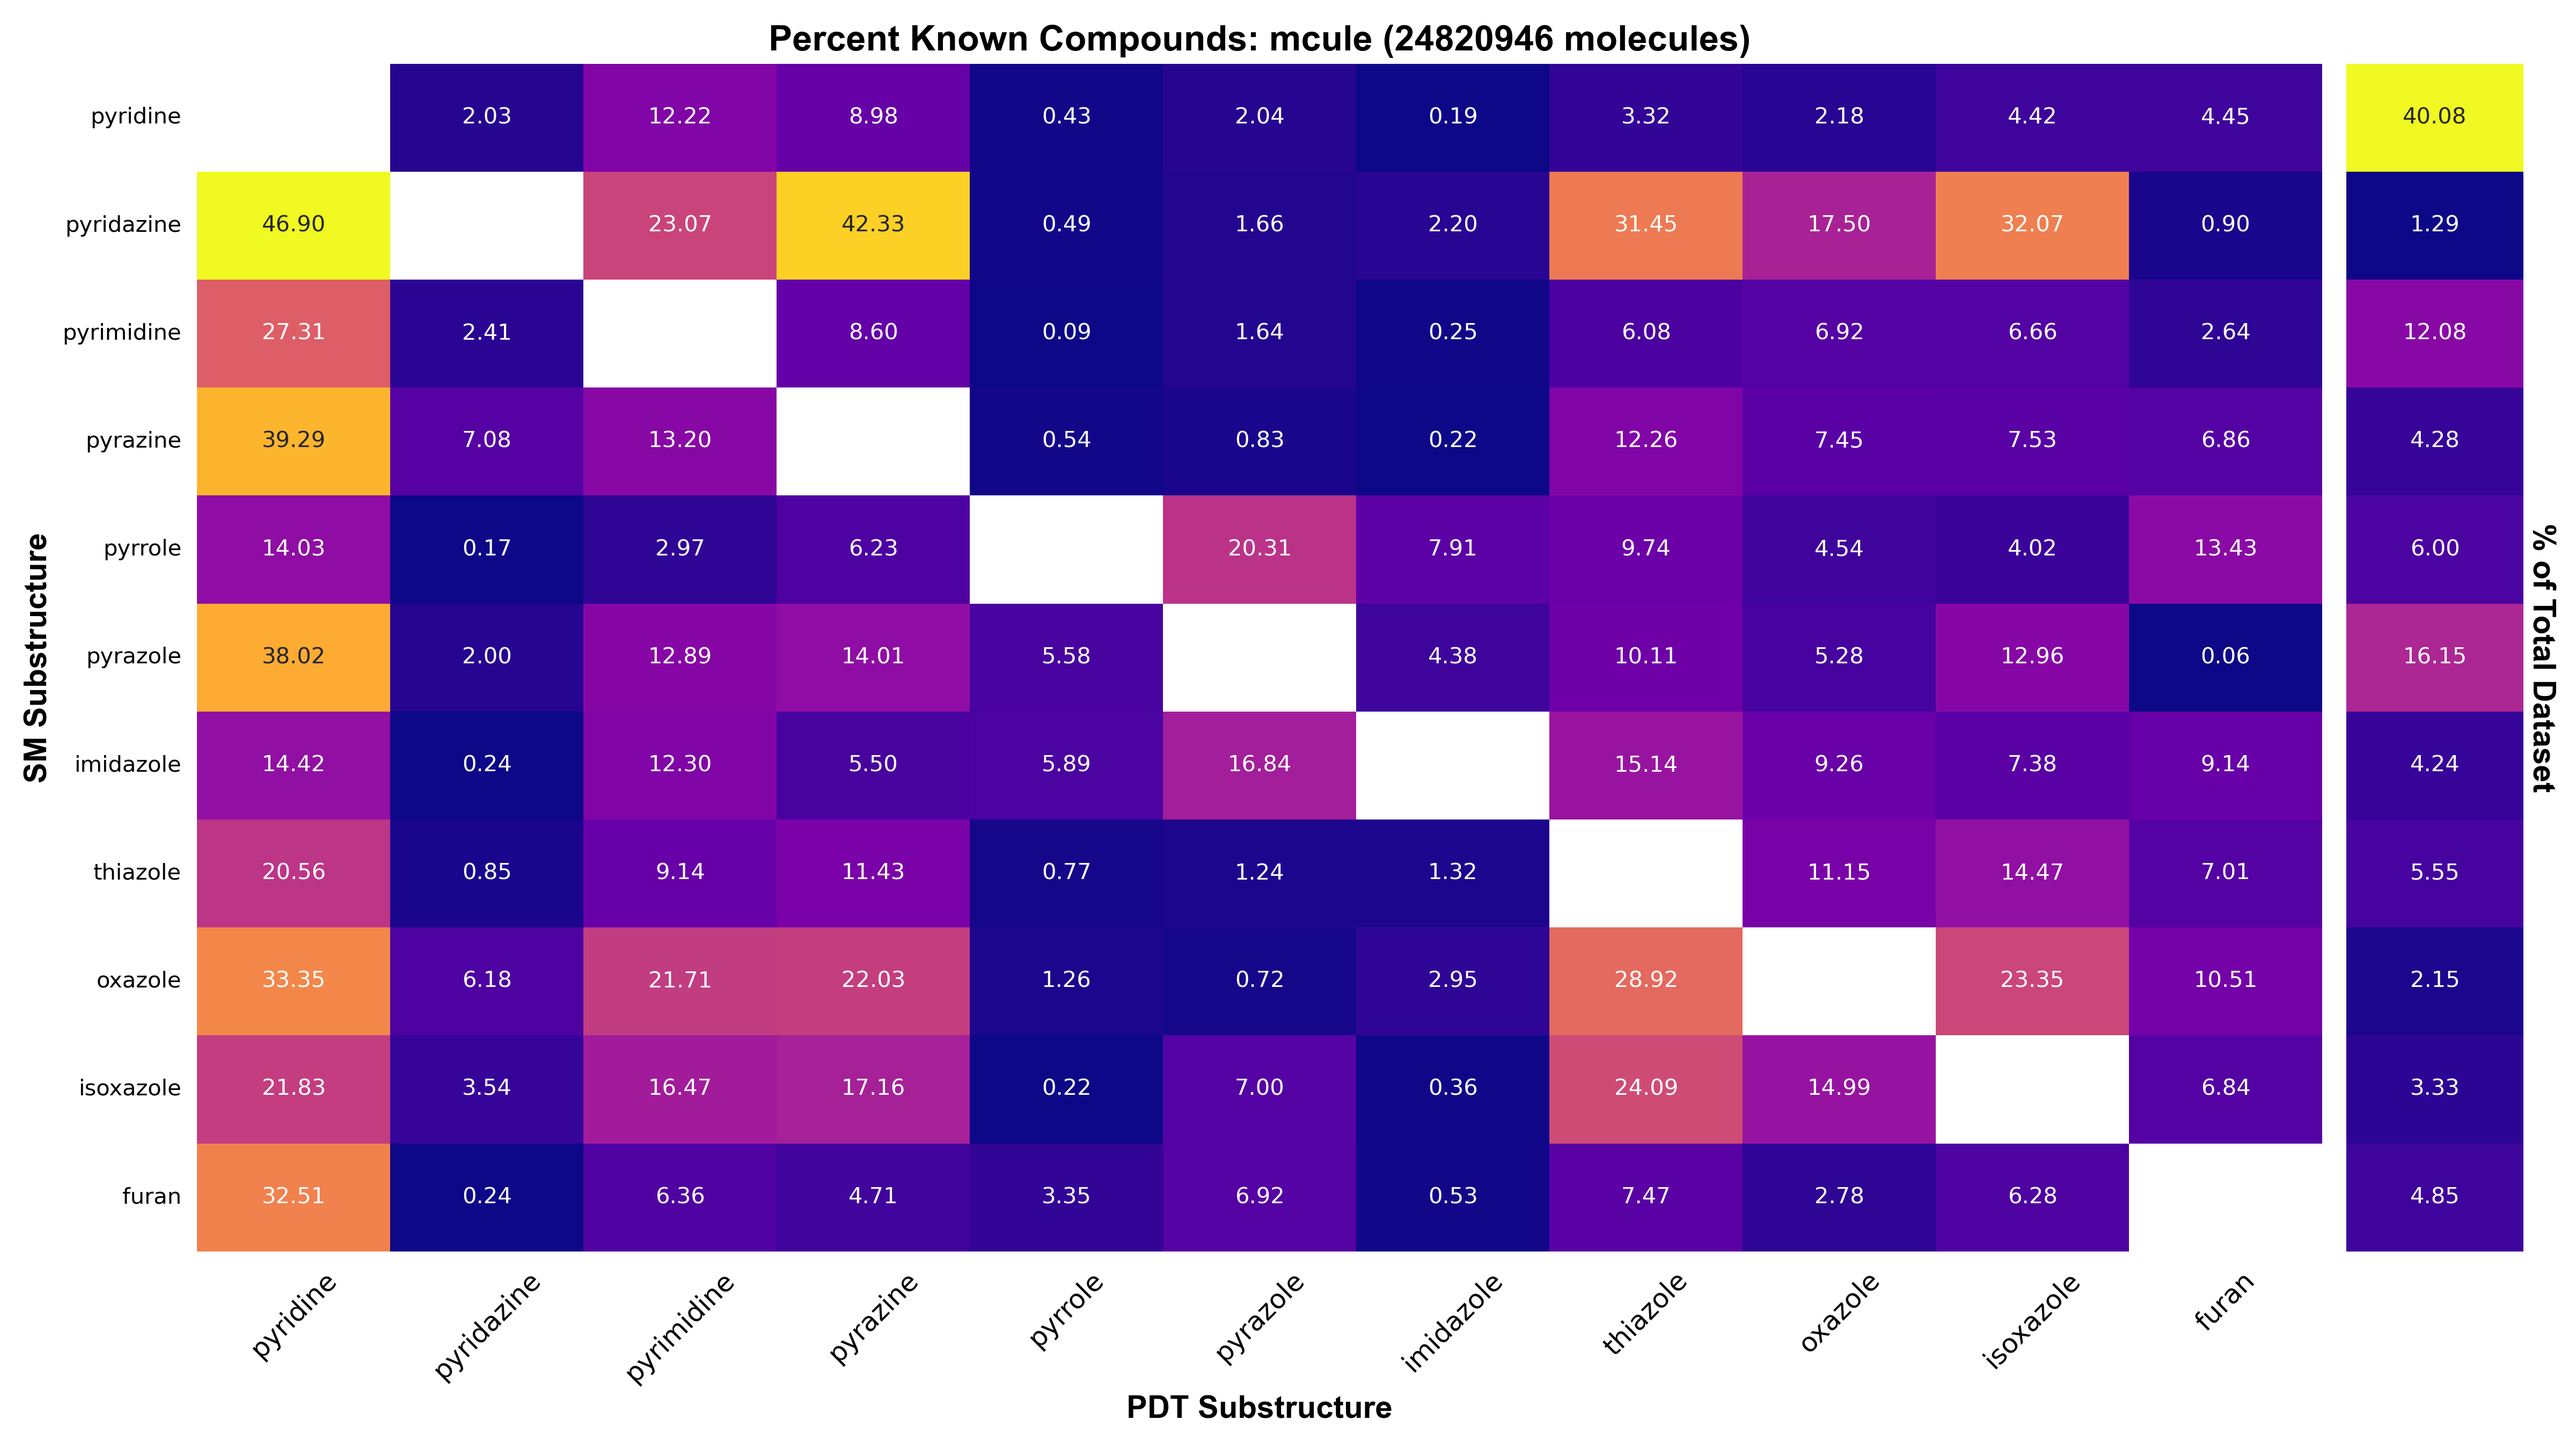
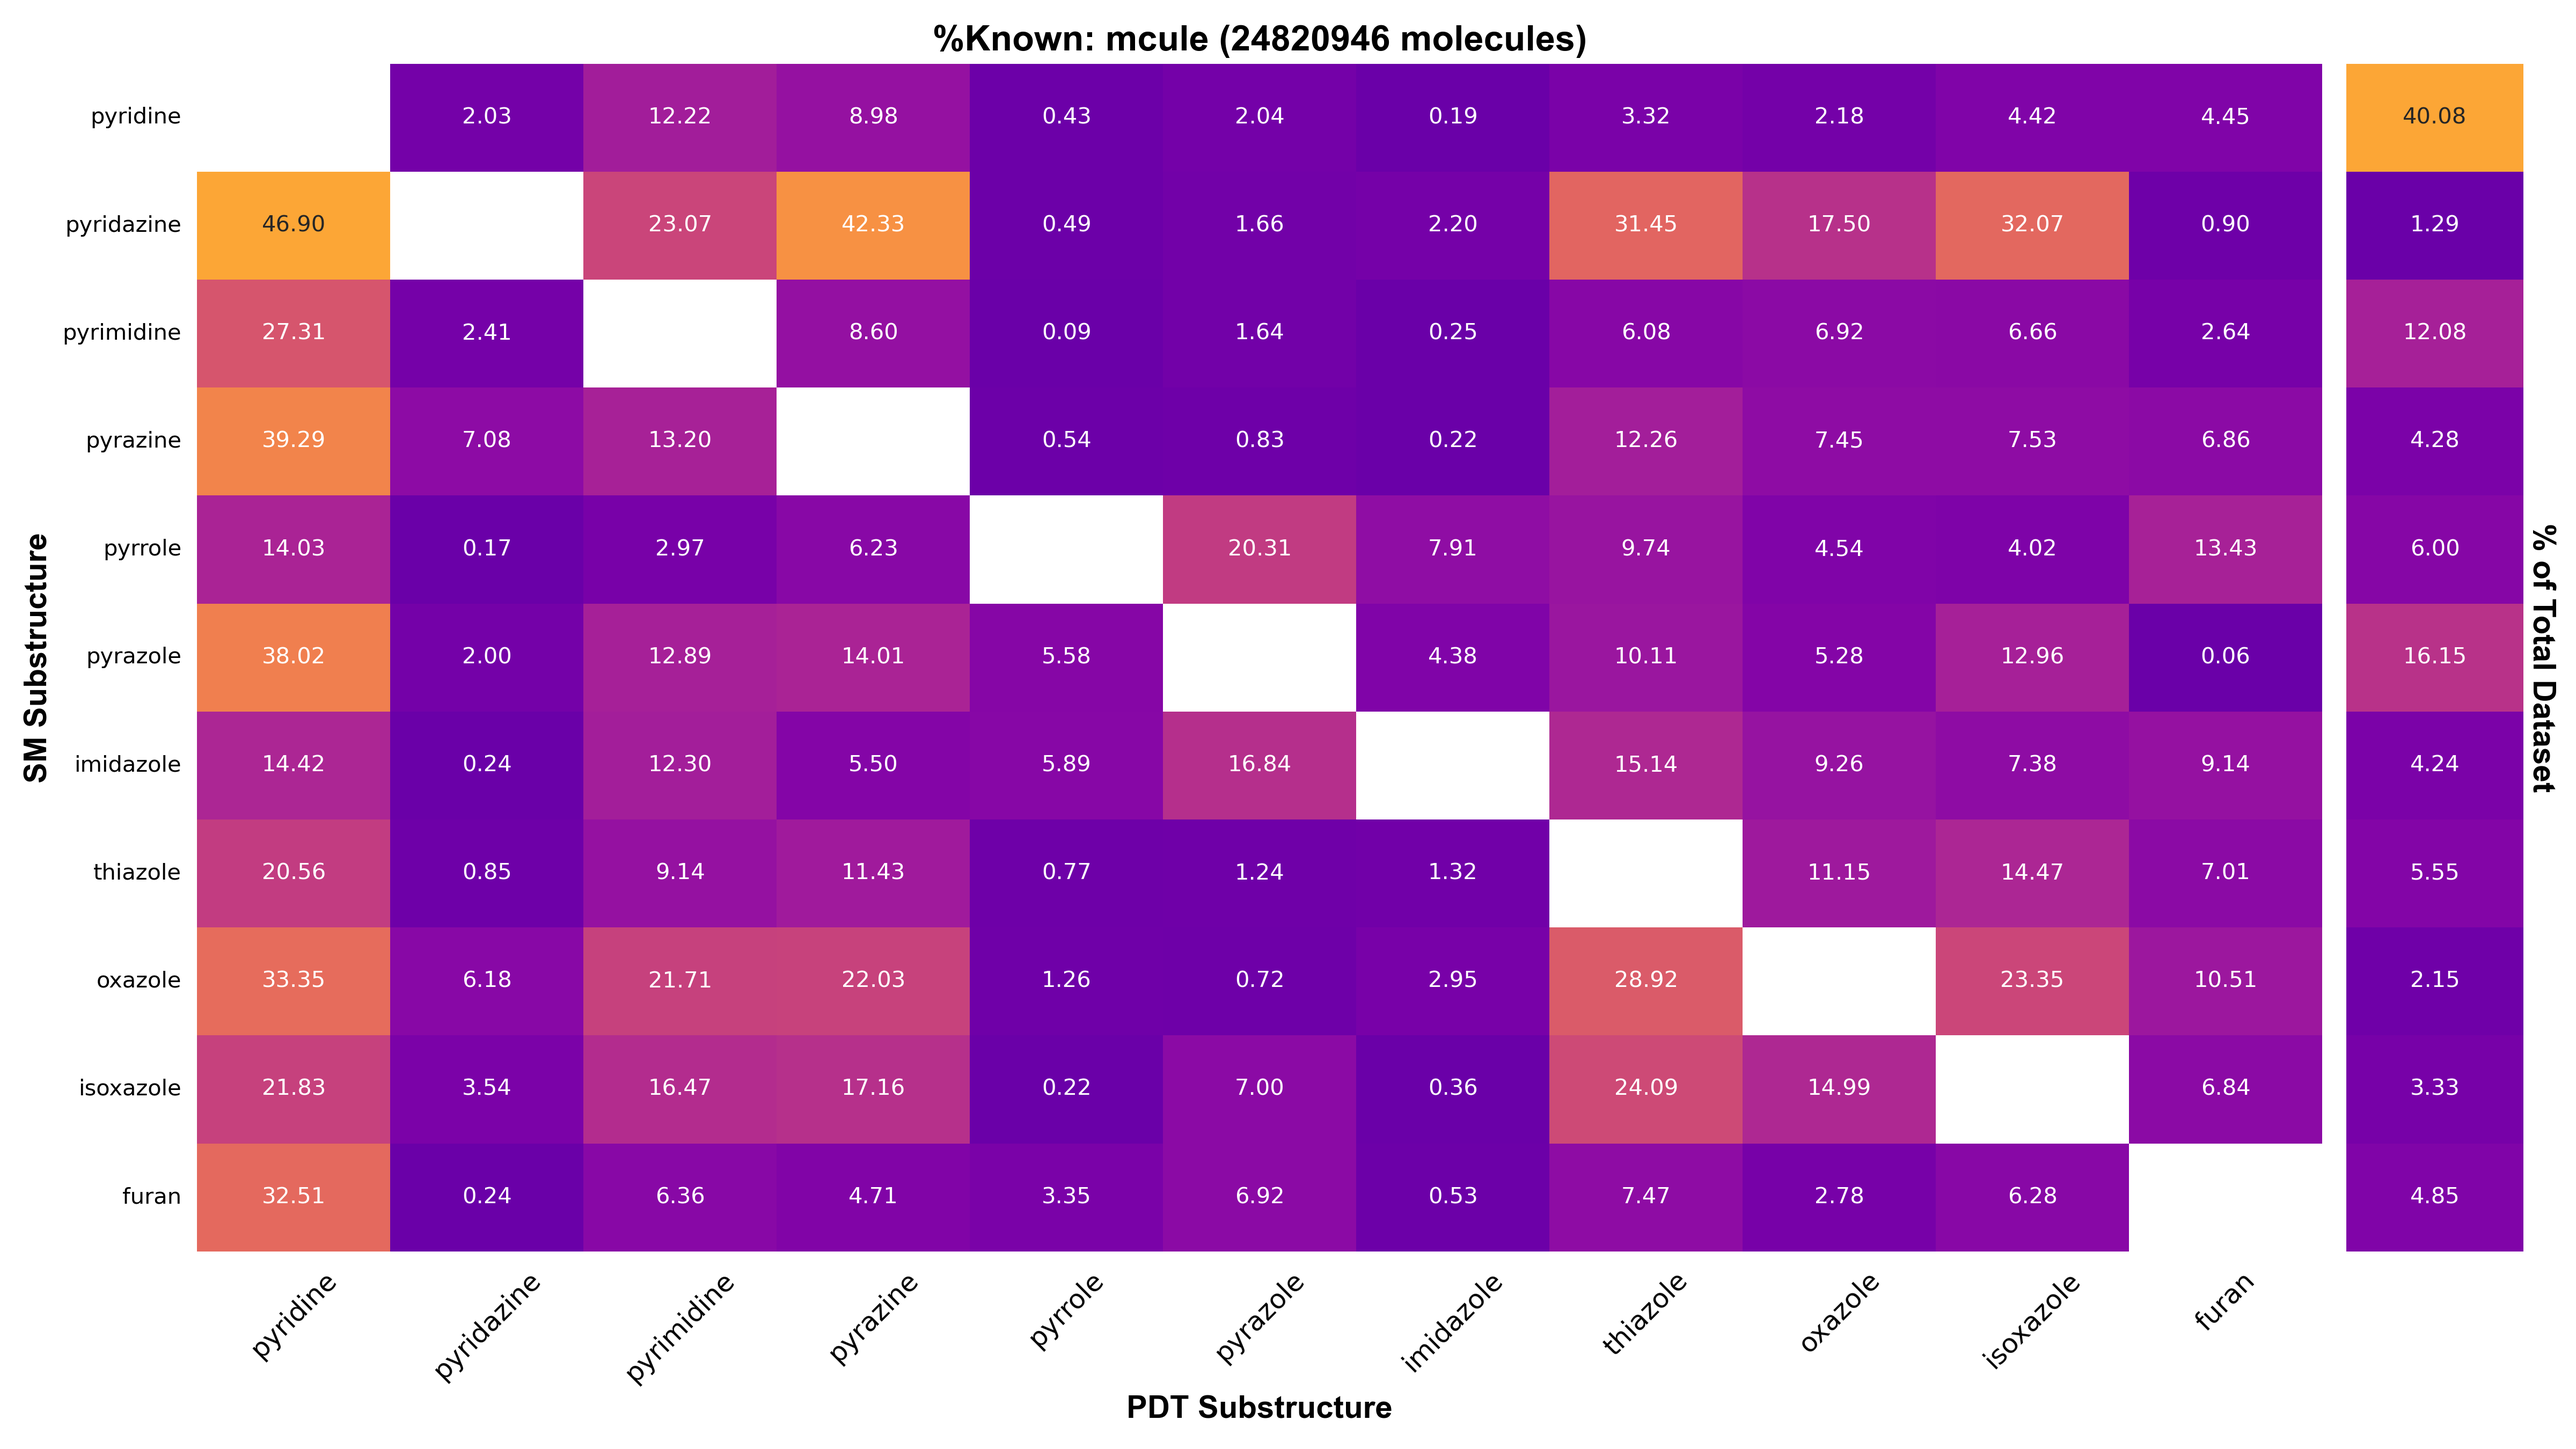
updated colormapping for softer colors

diff --git a/databases/results/final_analysis.py b/databases/results/final_analysis.py
@@ -8,6 +8,7 @@ import seaborn as sns
 import matplotlib.pyplot as plt
 from matplotlib.colors import ListedColormap # makes nice colors for heatmap
 from matplotlib.colors import LinearSegmentedColormap # makes nice colors for heatmap
+import cmasher as cmr # for truncating colormaps for softer colors
 
 
 # import seaborn and matplotlib for heatmap generation
@@ -201,7 +202,8 @@ def GenerateHeatmap(dataframe, title, filename, sm_df, directory):
 
     # define which colors to use
     # see https://seaborn.pydata.org/tutorial/color_palettes.html for more info
-    cmap = sns.color_palette("plasma", as_cmap=True)
+    # cmasher used to generated a sub-map so the colors aren't so harsh
+    cmap = cmr.get_sub_cmap('plasma', 0.2, 0.8)
 
     # Create a grid with different widths for subplots
     gs = plt.GridSpec(1, 2, width_ratios=[12, 1])
@@ -330,7 +332,7 @@ for database in database_list:
                                 index = frameworks,
                                 columns = frameworks)
     GenerateHeatmap(percent_new_df,
-                    f'Percent Unknown Compounds: {database} ({total_molecule_count} molecules)', 
+                    f'%New: {database} ({total_molecule_count} molecules)', 
                     f'percent_new_count_{database}.png',
                     sm_column_df,
                     'percent_new')
@@ -341,7 +343,7 @@ for database in database_list:
                                 index = frameworks,
                                 columns = frameworks)
     GenerateHeatmap(percent_common_df, 
-                    f'Percent Known Compounds: {database} ({total_molecule_count} molecules)', 
+                    f'%Known: {database} ({total_molecule_count} molecules)', 
                     f'percent_common_count_{database}.png',
                     sm_column_df,
                     'percent_common')

diff --git a/databases/results/final_analysis_benzene_to_products.py b/databases/results/final_analysis_benzene_to_products.py
@@ -8,6 +8,7 @@ import seaborn as sns
 import matplotlib.pyplot as plt
 from matplotlib.colors import ListedColormap # makes nice colors for heatmap
 from matplotlib.colors import LinearSegmentedColormap # makes nice colors for heatmap
+import cmasher as cmr # for truncating colormaps for softer colors
 
 
 # import seaborn and matplotlib for heatmap generation
@@ -189,7 +190,8 @@ def GenerateHeatmap(dataframe, title, filename, sm_df, directory):
 
     # define which colors to use
     # see https://seaborn.pydata.org/tutorial/color_palettes.html for more info
-    cmap = sns.color_palette("plasma", as_cmap=True)
+    # cmasher used to generated a sub-map so the colors aren't so harsh
+    cmap = cmr.get_sub_cmap('plasma', 0.2, 0.8)
 
     # Create a grid with different widths for subplots
     gs = plt.GridSpec(1, 2, width_ratios=[1, 1])
@@ -315,7 +317,7 @@ for database in database_list:
                                 index = frameworks,
                                 columns = benzene_index)
     GenerateHeatmap(percent_new_df,
-                    f'%New - Benzene to Heterocycles: ChEMBL', 
+                    f'%New: ChEMBL', 
                     f'percent_new_count_{database}.png',
                     sm_column_df,
                     'percent_new')
@@ -327,7 +329,7 @@ for database in database_list:
                                 index = frameworks,
                                 columns = benzene_index)
     GenerateHeatmap(percent_common_df, 
-                    f'%Known - Benzene to Heterocycles: ChEMBL', 
+                    f'%Known: ChEMBL', 
                     f'percent_common_count_{database}.png',
                     sm_column_df,
                     'percent_common')
